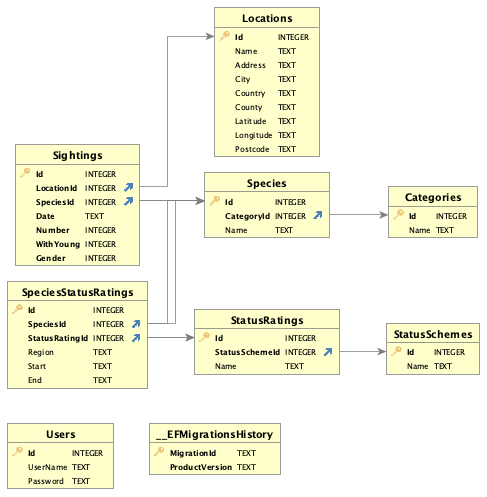
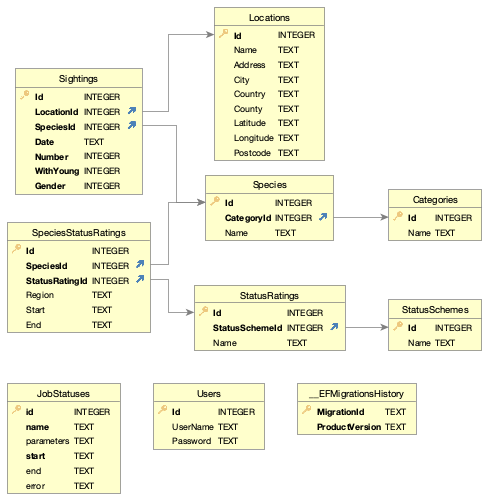
Updated database scheme with job statuses

diff --git a/docs/source/naturerec_model/schema.rst b/docs/source/naturerec_model/schema.rst
@@ -26,6 +26,8 @@ The Nature Recorder application has a SQLite back-end with the following schema:
 +-----------------------+---------------------------------------------------------------------------------------+
 | SPECIESSTATUSRATINGS  | Conservation status for a species on a scheme, with effective dates for the rating    |
 +-----------------------+---------------------------------------------------------------------------------------+
+| JOBSTATUSES           | Status of recently submitted background jobs (data import and export jobs)            |
++-----------------------+---------------------------------------------------------------------------------------+
 | USERS                 | Not used by the Python version of the application                                     |
 +-----------------------+---------------------------------------------------------------------------------------+
 | __EFMigrationsHistory | Not used by the Python version of the application                                     |
